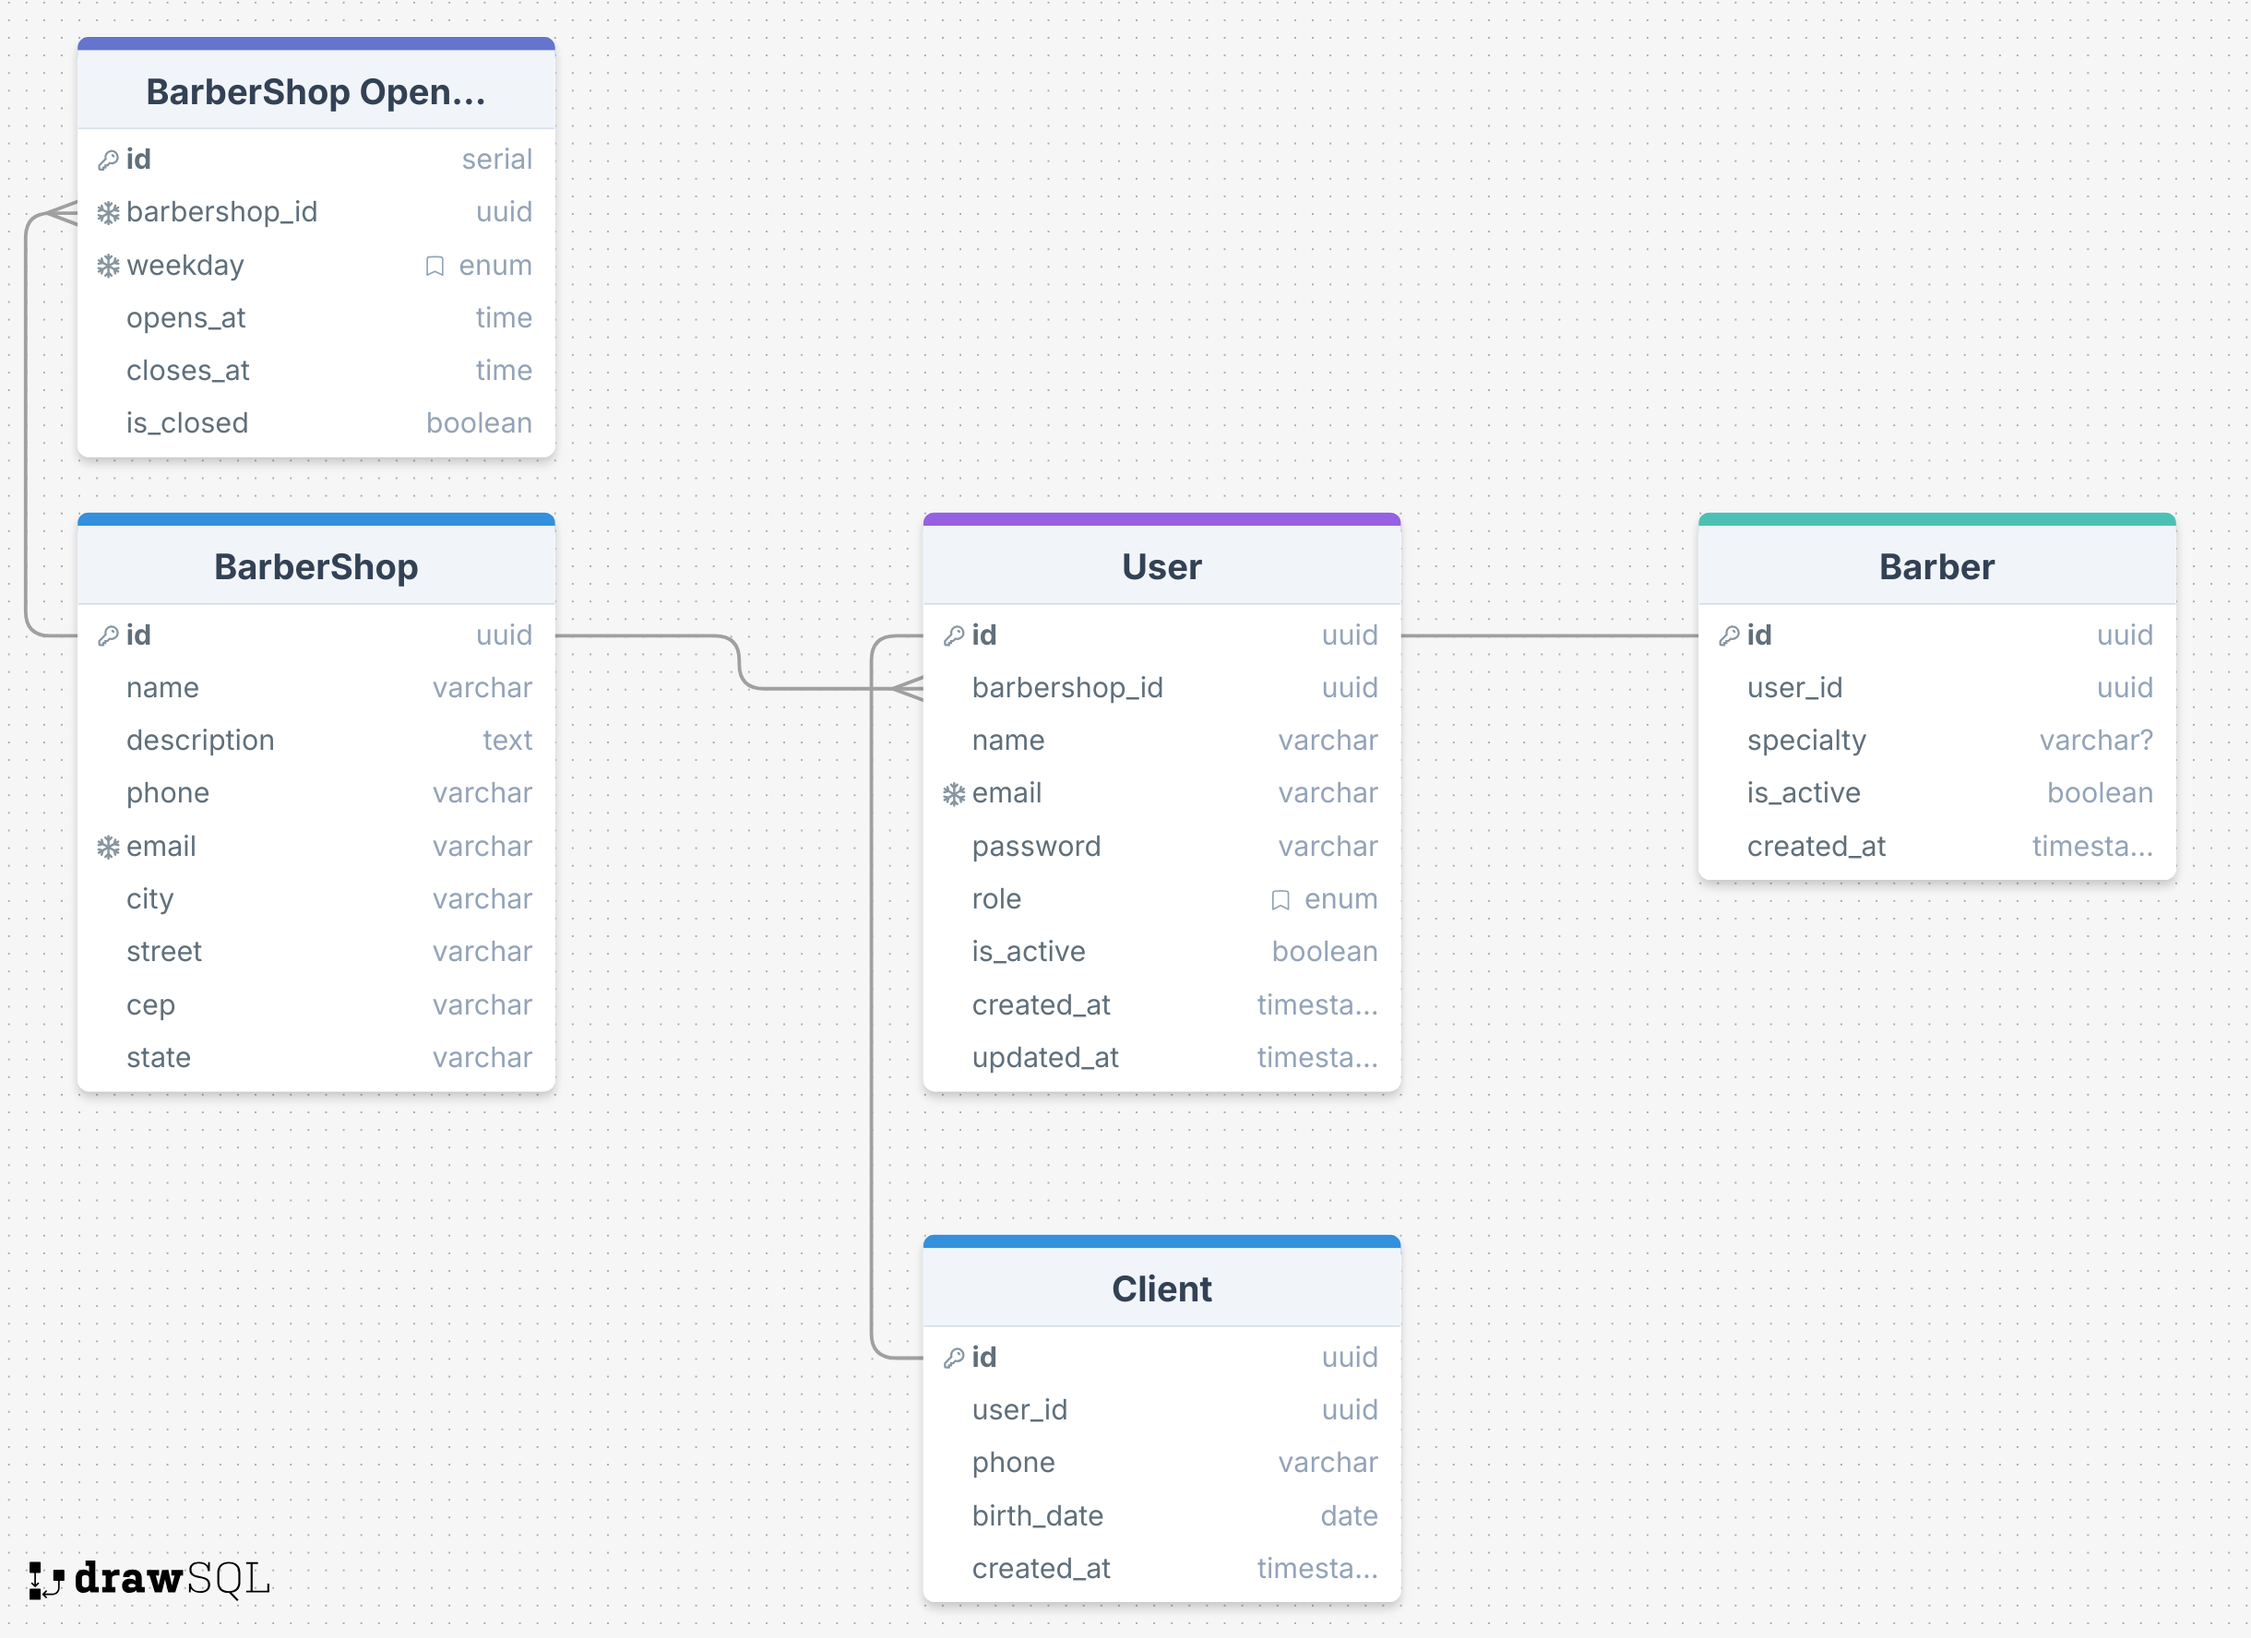
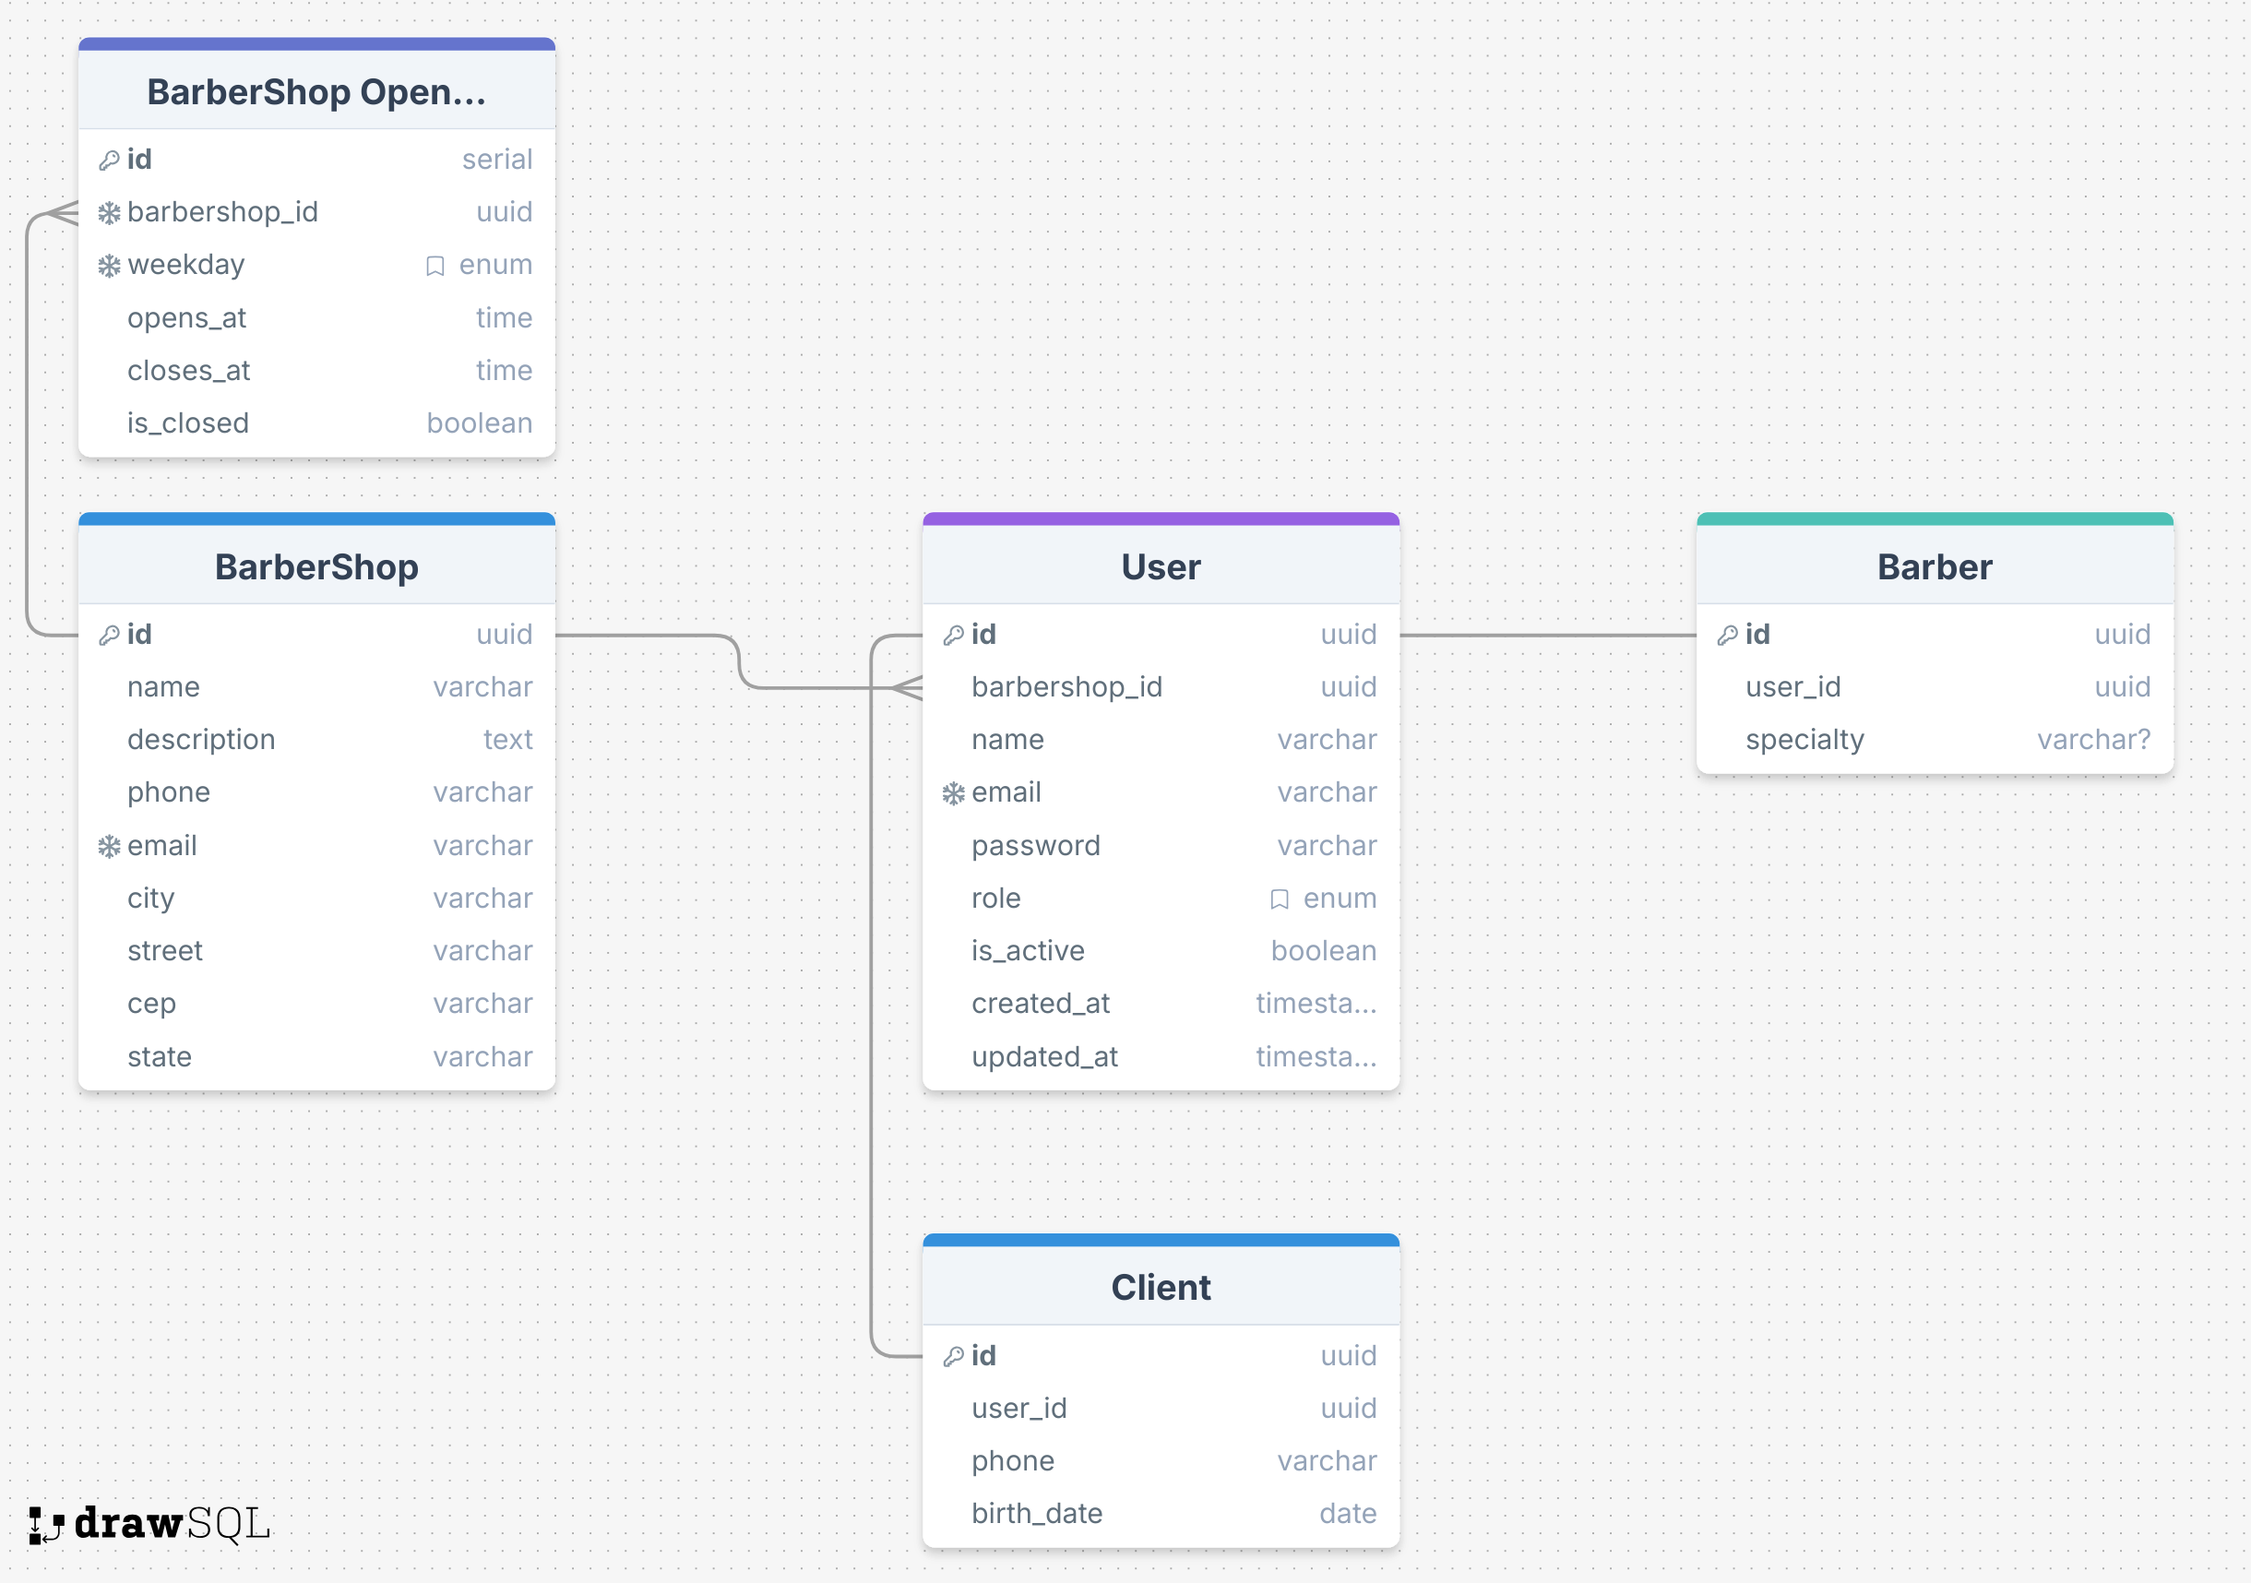
feat: implement createBarber and registerClient use cases with unit tests, update environment variables and TypeScript configuration

diff --git a/src/modules/User/useCases/registerClient/registerClientUseCase.unit.test.ts b/src/modules/User/useCases/registerClient/registerClientUseCase.unit.test.ts
@@ -1,19 +1,18 @@
 import { AppError } from '@shared/errors/appError';
-import { beforeEach, describe, expect, it } from 'vitest';
 import { UserRepositoryInMemory } from '../../repository/inMemory/userRepositoryInMemory';
-import { CreateClientUseCase } from './createClientUseCase';
+import { RegisterClientUseCase } from './registerClientUseCase';
 
-describe('[POST] /clients', () => {
+describe('[POST] /auth/register', () => {
 	let userRepositoryInMemory: UserRepositoryInMemory;
-	let createClientUseCase: CreateClientUseCase;
+	let registerClientUseCase: RegisterClientUseCase;
 
 	beforeEach(() => {
 		userRepositoryInMemory = new UserRepositoryInMemory();
-		createClientUseCase = new CreateClientUseCase(userRepositoryInMemory);
+		registerClientUseCase = new RegisterClientUseCase(userRepositoryInMemory);
 	});
 
 	it('should be able to create a client', async () => {
-		await createClientUseCase.execute({
+		await registerClientUseCase.execute({
 			email: 'H4t2V@example.com',
 			barberShopId: 'barberShopId',
 			birthDate: new Date(),
@@ -26,10 +25,13 @@ describe('[POST] /clients', () => {
 		expect(userRepositoryInMemory.users).toHaveLength(1);
 		expect(userRepositoryInMemory.clients).toHaveLength(1);
 		expect(userRepositoryInMemory.users[0].email).toBe('H4t2V@example.com');
+		expect(userRepositoryInMemory.clients[0].userId).toBe(
+			userRepositoryInMemory.users[0].id,
+		);
 	});
 
 	it('should not be able to create a client with an existing email', async () => {
-		await createClientUseCase.execute({
+		await registerClientUseCase.execute({
 			email: 'H4t2V@example.com',
 			barberShopId: 'barberShopId',
 			birthDate: new Date(),
@@ -40,7 +42,7 @@ describe('[POST] /clients', () => {
 		});
 
 		await expect(
-			createClientUseCase.execute({
+			registerClientUseCase.execute({
 				email: 'H4t2V@example.com',
 				barberShopId: 'barberShopId',
 				birthDate: new Date(),

diff --git a/src/modules/User/useCases/createBarber/createBarberUseCase.unit.test.ts b/src/modules/User/useCases/createBarber/createBarberUseCase.unit.test.ts
@@ -1,0 +1,54 @@
+import { UserRepositoryInMemory } from '@modules/User/repository/inMemory/userRepositoryInMemory';
+import { AppError } from '@shared/errors/appError';
+import { CreateBarberUseCase } from './createBarberUseCase';
+
+describe('[POST] /barbers', () => {
+	let userRepositoryInMemory: UserRepositoryInMemory;
+	let createBarberUseCase: CreateBarberUseCase;
+
+	beforeEach(() => {
+		userRepositoryInMemory = new UserRepositoryInMemory();
+		createBarberUseCase = new CreateBarberUseCase(userRepositoryInMemory);
+	});
+
+	it('should be able to create a new barber', async () => {
+		await createBarberUseCase.execute({
+			email: 'barber@example.com',
+			password: '123456',
+			name: 'John Doe',
+			barberShopId: 'barberShopId',
+			isActive: true,
+			specialty: 'Corte de cabelo',
+		});
+
+		expect(userRepositoryInMemory.barbers).toHaveLength(1);
+		expect(userRepositoryInMemory.barbers[0].user.email).toBe(
+			'barber@example.com',
+		);
+		expect(userRepositoryInMemory.barbers[0].userId).toBe(
+			userRepositoryInMemory.users[0].id,
+		);
+	});
+
+	it('should not be able to create a barber with an email that already exists', async () => {
+		await createBarberUseCase.execute({
+			email: 'barber@example.com',
+			password: '123456',
+			name: 'John Doe',
+			barberShopId: 'barberShopId',
+			isActive: true,
+			specialty: 'Corte de cabelo',
+		});
+
+		await expect(
+			createBarberUseCase.execute({
+				email: 'barber@example.com',
+				password: '123456',
+				name: 'John Doe',
+				barberShopId: 'barberShopId',
+				isActive: true,
+				specialty: 'Corte de cabelo',
+			}),
+		).rejects.toEqual(new AppError('User already exists', 400));
+	});
+});

diff --git a/src/modules/User/useCases/createBarber/createBarberUseCase.ts b/src/modules/User/useCases/createBarber/createBarberUseCase.ts
@@ -1,0 +1,23 @@
+import type { ICreateBarberDTO } from '@modules/User/dtos/IcreateBarberDTO';
+import type { IUserRepository } from '@modules/User/repository/IuserRepository';
+import { AppError } from '@shared/errors/appError';
+import { hash } from 'bcrypt';
+
+export class CreateBarberUseCase {
+	constructor(private userRepository: IUserRepository) {}
+
+	async execute(data: ICreateBarberDTO): Promise<void> {
+		const userAlreadyExists = await this.userRepository.findByEmail(data.email);
+
+		if (userAlreadyExists) {
+			throw new AppError('User already exists', 400);
+		}
+
+		const hashedPassword = await hash(data.password, 10);
+
+		await this.userRepository.createBarber({
+			...data,
+			password: hashedPassword,
+		});
+	}
+}

diff --git a/src/modules/User/useCases/registerClient/registerClientUseCase.ts b/src/modules/User/useCases/registerClient/registerClientUseCase.ts
@@ -3,7 +3,7 @@ import { AppError } from '@/shared/errors/appError';
 import type { ICreateClientDTO } from '../../dtos/IcreateClientDTO';
 import type { IUserRepository } from '../../repository/IuserRepository';
 
-export class CreateClientUseCase {
+export class RegisterClientUseCase {
 	constructor(private userRepository: IUserRepository) {}
 
 	async execute(data: ICreateClientDTO): Promise<void> {
